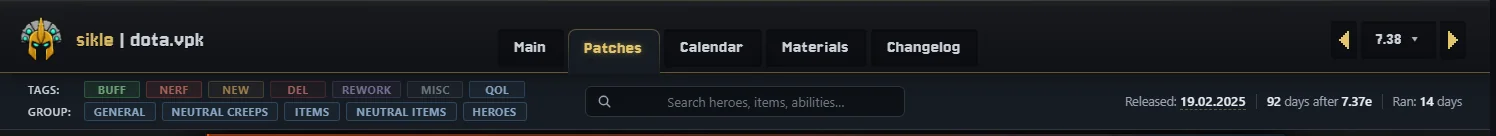
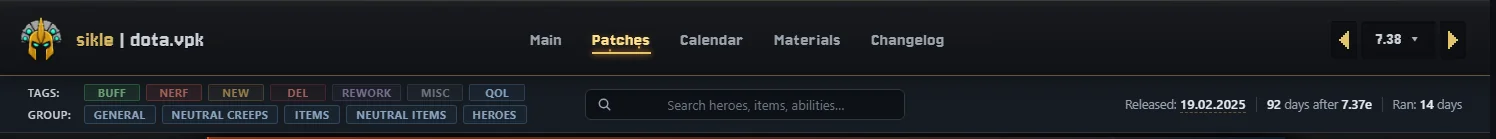
feat: header "embers" - plain nav labels, active one glows with rising sparks
Main buttons lose their plates; the active tab is gold over a thin gold bar with
four staggered embers (transform/opacity only, hidden under reduced motion).
Materials sub-nav becomes a plain text row (active gold, faint gold rule, no blue).
Folder-tab styling removed.

diff --git a/styles.css b/styles.css
@@ -5436,45 +5436,54 @@ body:has(.creeps-scroll) .creeps-page { padding-top: 0; padding-bottom: 12px; }
     0 0  3px rgba(227, 196, 106, 0.25);
 }
 
-/* Header — ONE gold rule under the nav (it used to be a faint gold line + the toolbar's grey
-   top border = two lines). The active main tab "opens" into what sits below: gold top/side
-   edges, no bottom edge, filled with the colour of the block under the nav, and it covers the
-   rule, so the rule has a gap right under it — like a folder tab. --tab-open-bg = that block:
-   the patch toolbar, the Materials sub-nav, or the page. */
-nav.top-nav { border-bottom: 0; --tab-open-bg: var(--bg-page); }
-body.patch-page nav.top-nav { --tab-open-bg: var(--bg-panel-3); }
-body nav.top-nav.nav-over-subnav { --tab-open-bg: var(--bg-panel-2); }   /* beats body.patch-page (entity pages) */
+/* Header "embers": the main buttons are plain labels (no plates); the active one glows gold
+   over a thin gold bar with a few sparks rising from it — the autocast embers. Only transform /
+   opacity animate (compositor). ONE gold rule under the nav (the toolbar lost its grey top border). */
+nav.top-nav { border-bottom: 0; }
 nav.top-nav::after { background: rgba(227, 196, 106, 0.42); opacity: 1; }
-.nav-inner { padding-bottom: 0; }
-.nav-tabs { align-self: end; align-items: flex-end; }
-.nav-tab { margin-bottom: 6px; }
-.nav-tab.active {
-  position: relative;
-  z-index: 2;                               /* above the nav's ::after rule */
-  height: 45px;
-  margin-bottom: -1px;                      /* reach over the rule */
-  padding-bottom: 7px;
-  background: var(--tab-open-bg);
-  /* soft, rounded frame: a quieter gold that fades out down the sides into the block below */
-  border: 1px solid transparent;
-  border-bottom: 0;
-  border-radius: 8px 8px 0 0;
-  background-image:
-    linear-gradient(var(--tab-open-bg), var(--tab-open-bg)),
-    linear-gradient(180deg, rgba(227, 196, 106, 0.34) 0%, rgba(227, 196, 106, 0.16) 60%, rgba(227, 196, 106, 0) 100%);
-  background-origin: border-box;
-  background-clip: padding-box, border-box;
+.toolbar { border-top: 0; }
+.nav-tab, .nav-tab:hover, .nav-tab.active {
+  background: none;
   box-shadow: none;
   clip-path: none;
-  transition: background 0.2s ease, color 0.2s ease;
+  border-color: transparent;
 }
-.toolbar { border-top: 0; }
+.nav-tab { position: relative; padding: 0 12px; color: #9aa3ad; }
+.nav-tab:hover { color: var(--text-bright); }
+.nav-tab.active { color: #ffe08a; text-shadow: 0 0 10px rgba(255, 170, 60, 0.25); }
+.nav-tab.active::after {
+  content: "";
+  position: absolute;
+  left: 14%;
+  right: 14%;
+  bottom: 5px;
+  height: 2px;
+  background: var(--gold);
+  box-shadow: 0 0 6px #ff9a2a;
+}
+.nav-ember {
+  position: absolute;
+  bottom: 6px;
+  width: 2px;
+  height: 2px;
+  background: #ffcf6a;
+  box-shadow: 0 0 3px #ff8a1a;
+  opacity: 0;
+  pointer-events: none;
+  animation: nav-ember 1.6s linear infinite;
+}
+@keyframes nav-ember {
+  0%   { opacity: 0; transform: translateY(0); }
+  15%  { opacity: 1; }
+  100% { opacity: 0; transform: translateY(-16px); }
+}
+@media (prefers-reduced-motion: reduce) { .nav-ember { display: none; } }
 
 /* Materials sub-tabs — flat row of three browser-tab pills, hung BELOW the
    main header on a thin bar (so the header itself stays compact). */
 .materials-subnav {
   background: var(--bg-panel-2);
-  border-bottom: 1px solid var(--blue-18);
+  border-bottom: 1px solid rgba(227, 196, 106, 0.14);
   width: 100%;
 }
 .materials-subnav-inner {
@@ -5517,12 +5526,14 @@ nav.top-nav::after { background: rgba(227, 196, 106, 0.42); opacity: 1; }
   align-items: center;
   gap: 0;
 }
-.nav-subtab:hover { color: var(--text-bright); background: rgba(48, 54, 61, 0.45); }
+.nav-subtab:hover { color: var(--text-bright); background: none; }
 .nav-subtab.active {
   color: var(--gold);
-  background: var(--bg-page);          /* matches the page background → tab merges into page */
-  border-color: var(--blue-18);
+  background: none;
+  border-color: transparent;
 }
+/* plain labels, like the main buttons above (no tab pills / blue borders) */
+.nav-subtab { color: #8b98a8; border-color: transparent; border-radius: 0; }
 .nav-subtab-label { color: inherit; }
 /* ---- Grouped sub-nav dropdowns (Creeps ▾ / Items ▾ / Heroes ▾) ---- */
 .nav-subgroup { position: relative; display: inline-flex; align-items: flex-end; }

diff --git a/builders/site_common.py b/builders/site_common.py
@@ -185,9 +185,13 @@ def render_top_nav(active, latest_href, *, patch_context=False, picker_html=None
         if key == "changelogs":
             return latest_href
         return prefix + href
+    # The active tab smoulders: a thin gold bar with a few sparks rising from it (CSS "nav-ember",
+    # the same embers as the neutral tables' autocast). Staggered so they never rise together.
+    embers = ''.join(f'<i class="nav-ember" style="left:{x}%;animation-delay:{d}s"></i>'
+                     for x, d in ((22, 0), (48, 0.5), (70, 1.0), (35, 1.3)))
     centre = ''.join(
         f'<a class="nav-tab{" active" if active == key else ""}" '
-        f'href="{_tab_href(key, href)}">{label}</a>'
+        f'href="{_tab_href(key, href)}">{label}{embers if active == key else ""}</a>'
         for key, label, href in NAV_TABS)
     # On the index hub the centre tabs are omitted — they'd just duplicate the
     # inventory-tile grid below. Other pages keep them. Keep an EMPTY centre
@@ -210,8 +214,7 @@ def render_top_nav(active, latest_href, *, patch_context=False, picker_html=None
             f'<div class="nav-context nav-context-flat '
             f'nav-context-{active}">{ver_html}</div>'
         )
-    below = " nav-over-subnav" if subtabs_active is not None else ""
-    header = f'''<nav class="top-nav{below}">
+    header = f'''<nav class="top-nav">
   <div class="nav-inner">
     {brand}
     {centre_html}

diff --git a/tests/test_top_nav.py b/tests/test_top_nav.py
@@ -1,0 +1,12 @@
+"""Header: only the active main button carries the ember sparks."""
+import re
+
+from builders.site_common import render_top_nav
+
+
+def test_only_the_active_tab_smoulders():
+    html = render_top_nav("changelogs", "patches/7.41.html")
+    tabs = re.findall(r'<a class="nav-tab( active)?"[^>]*>(.*?)</a>', html)
+    assert tabs, "no nav tabs rendered"
+    for active, inner in tabs:
+        assert inner.count('class="nav-ember"') == (4 if active else 0), inner
